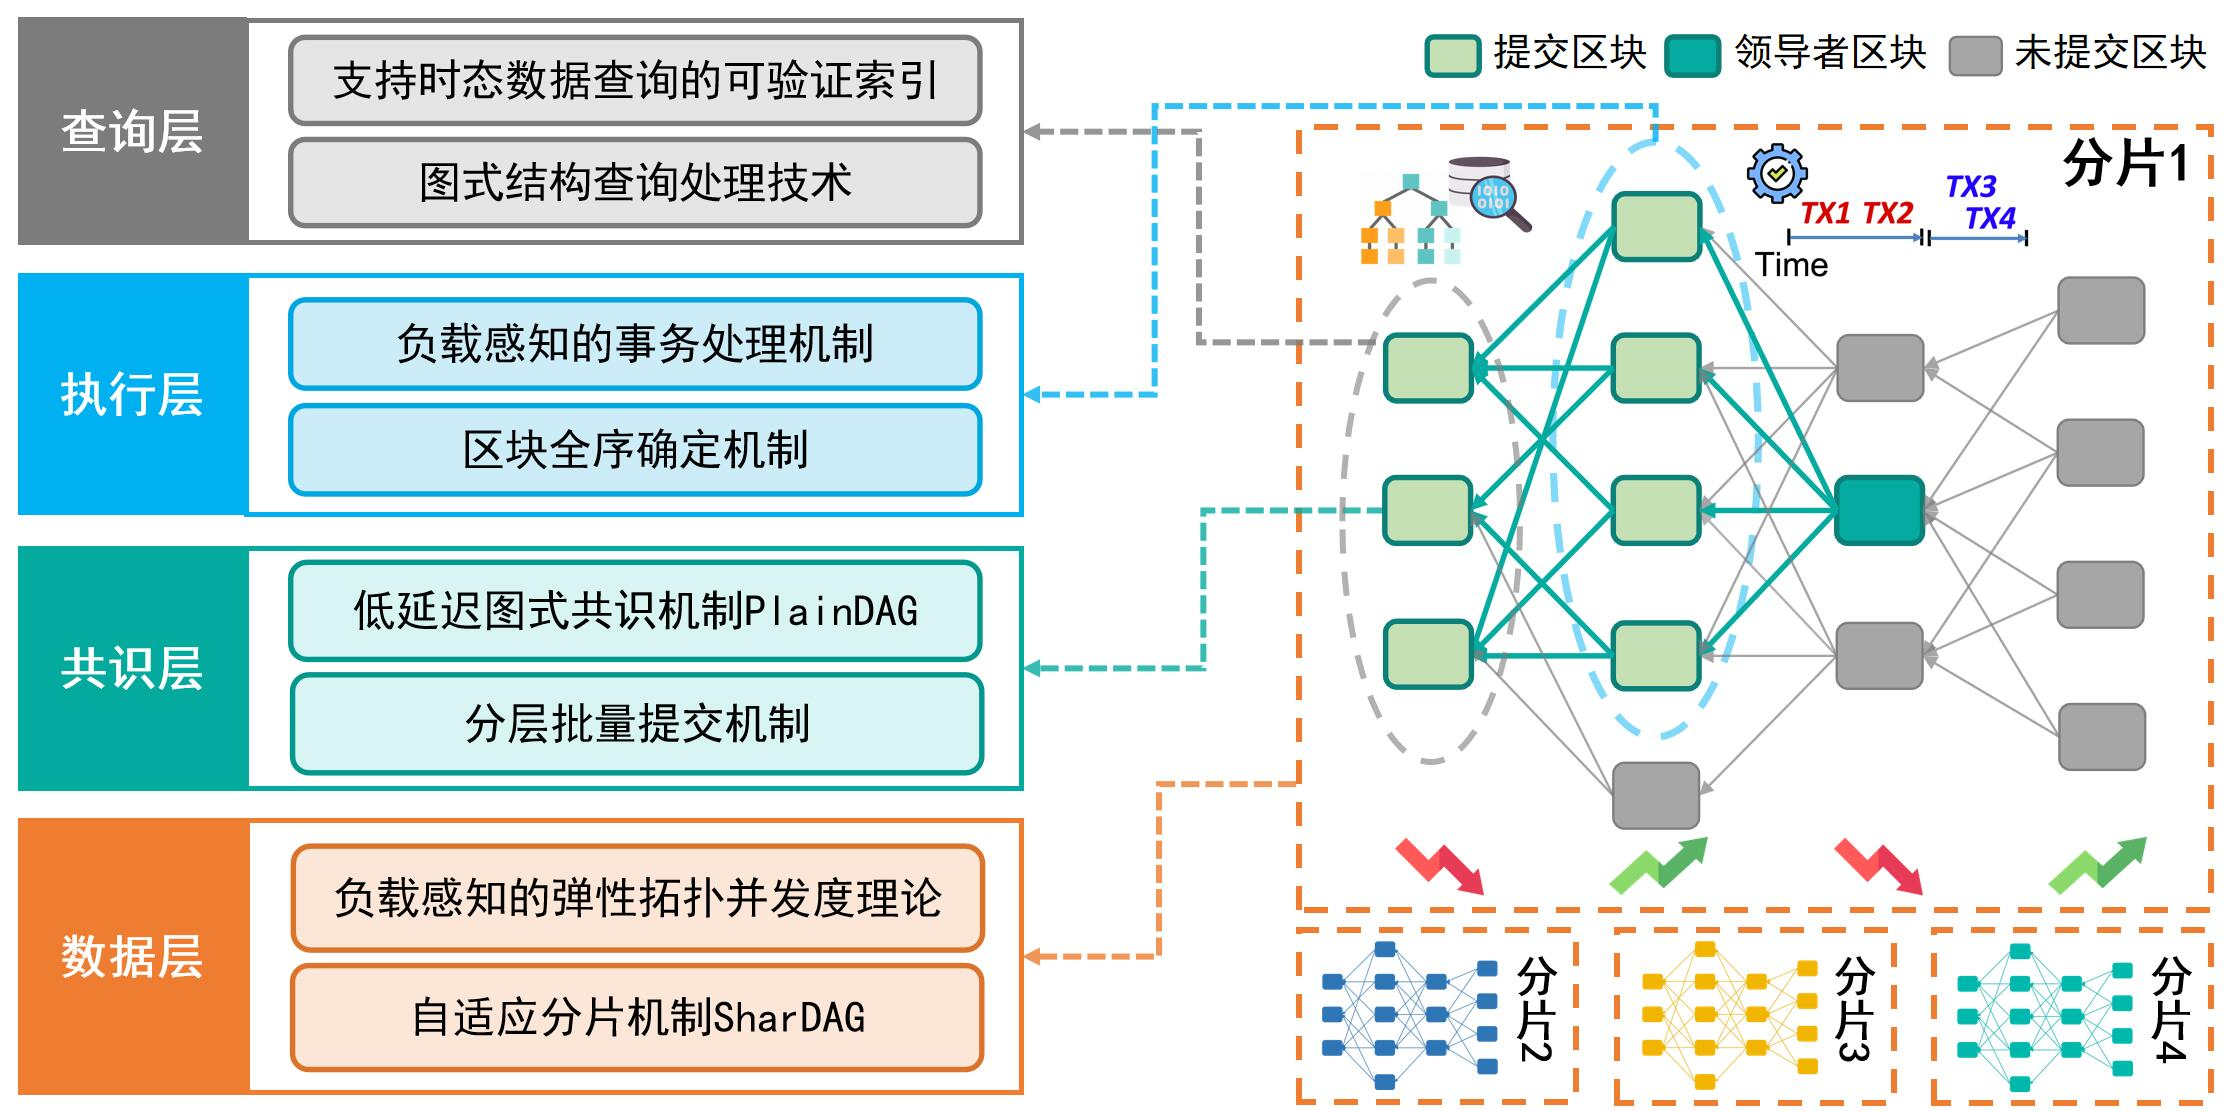
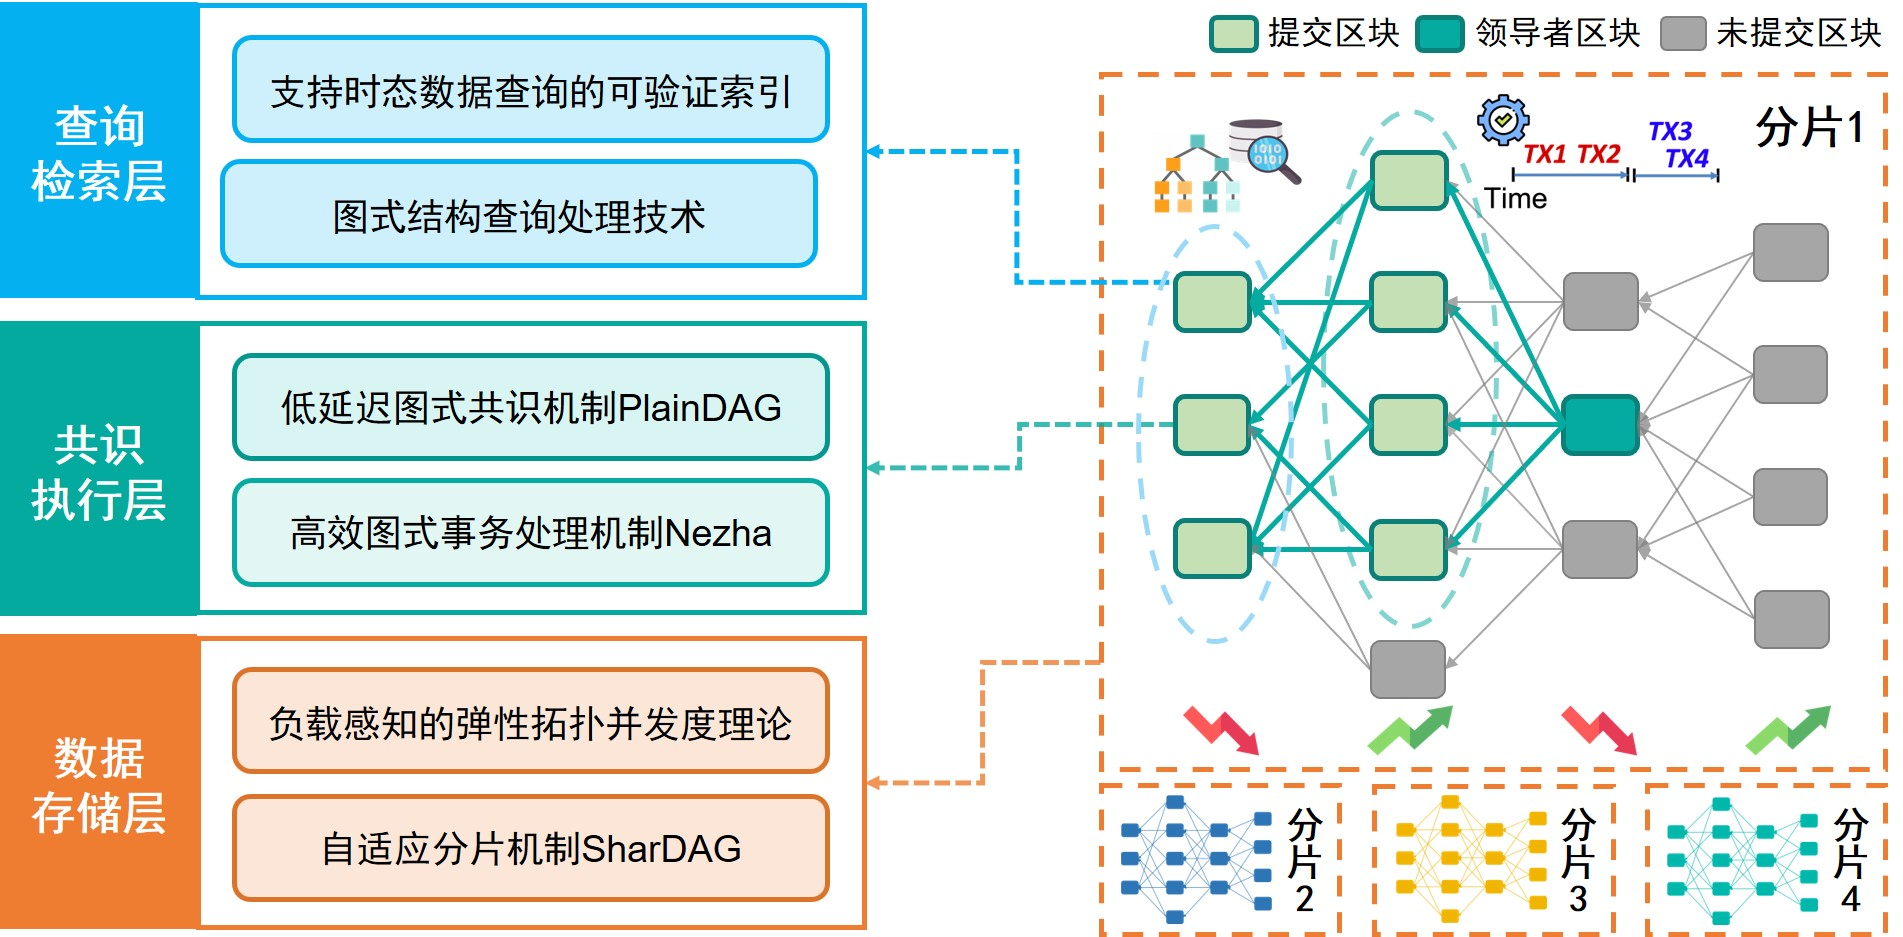
Update in 2023/6/15

diff --git a/src/pages/Mainpage/components/Mainpage/index.jsx b/src/pages/Mainpage/components/Mainpage/index.jsx
@@ -124,21 +124,21 @@ const WorkTable = (props) => {
               <div colSpan={12} style={{ background: '#ffffff', height: '25px' }} />
               <Card.Content className={styles.flexContainer}>
                 <div className={styles.imageContainer} style={{ position: 'relative', left: '30%', transform: 'translateX(-50%)' }}>
-                  <img src={lj} alt="系统架构图" className={styles.architectureImage} style={{ objectFit: 'cover', width: '100%', height: '100%' }} />
+                  <img src={lj} alt="系统架构图" className={styles.architectureImage} style={{ objectFit: 'cover', width: '110%', height: '110%' }} />
                 </div>
                 <div className={styles.descriptionContainer}>
-                  <p style={{ textAlign: 'left', fontSize: '40px', lineHeight: '1.5', color: 'black', fontWeight: 'bold', marginTop: '-20px', marginLeft: '200px' }}>
+                  <p style={{ textAlign: 'left', fontSize: '40px', lineHeight: '1.5', color: 'black', fontWeight: 'bold', marginTop: '-20px', marginLeft: '250px' }}>
                     系统架构图
                   </p>
 
-                  <p style={{ textAlign: 'left', fontSize: '20px', lineHeight: '1.5', marginTop: '20px', marginLeft: '200px' }}>
-                    原型系统MorphDAG1.0的版本分为四层，由下至上依次是：数据层、共识层、执行层和查询层。
+                  <p style={{ textAlign: 'left', fontSize: '20px', lineHeight: '1.5', marginTop: '20px', marginLeft: '250px' }}>
+                    原型系统MorphDAG1.0的版本分为三层，由下至上依次是：数据存储层、共识执行层和查询检索层。
                   </p>
 
-                  <p style={{ textAlign: 'left', fontSize: '20px', lineHeight: '1.5', marginLeft: '200px' }}>
-                    数据层面向任务一，构建了弹性图式数据模型与拓扑结构，并融合了分片存储策略提升存储可扩展性；
-                    共识层面向任务二，利用RBC或CBC进行区块广播，并采用引用计数机制，实现低延迟的图式共识；执行层面向任务二，包含区块全序确定机制以及负载感知的事务处理机制；
-                    查询层则面向任务三，实现可验证高效查询，支持时态数据查询以及图结构数据查询。
+                  <p style={{ textAlign: 'left', fontSize: '20px', lineHeight: '1.5', marginLeft: '250px' }}>
+                    其中数据存储层面向任务一，构建了弹性图式数据模型与拓扑结构，并融合了分片存储策略提升存储可扩展性；
+                    共识执行层面向任务二，利用RBC或CBC进行区块广播，并使用高效并发控制机制进行冲突检测与事务排序，实现低延迟的图式共识与执行；
+                    查询检索层则面向任务三，实现可验证高效查询，支持时态数据查询以及图结构数据查询
                   </p>
                 </div>
               </Card.Content>
